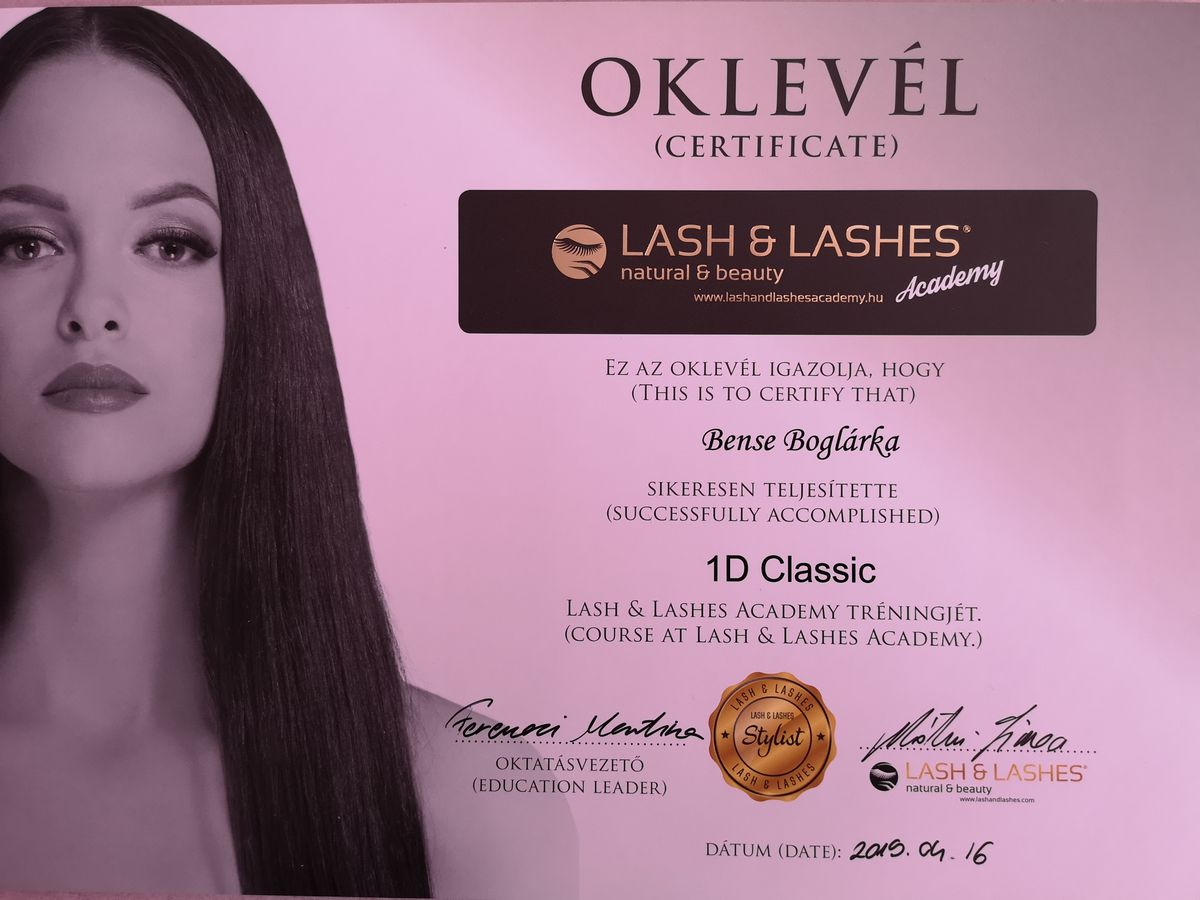
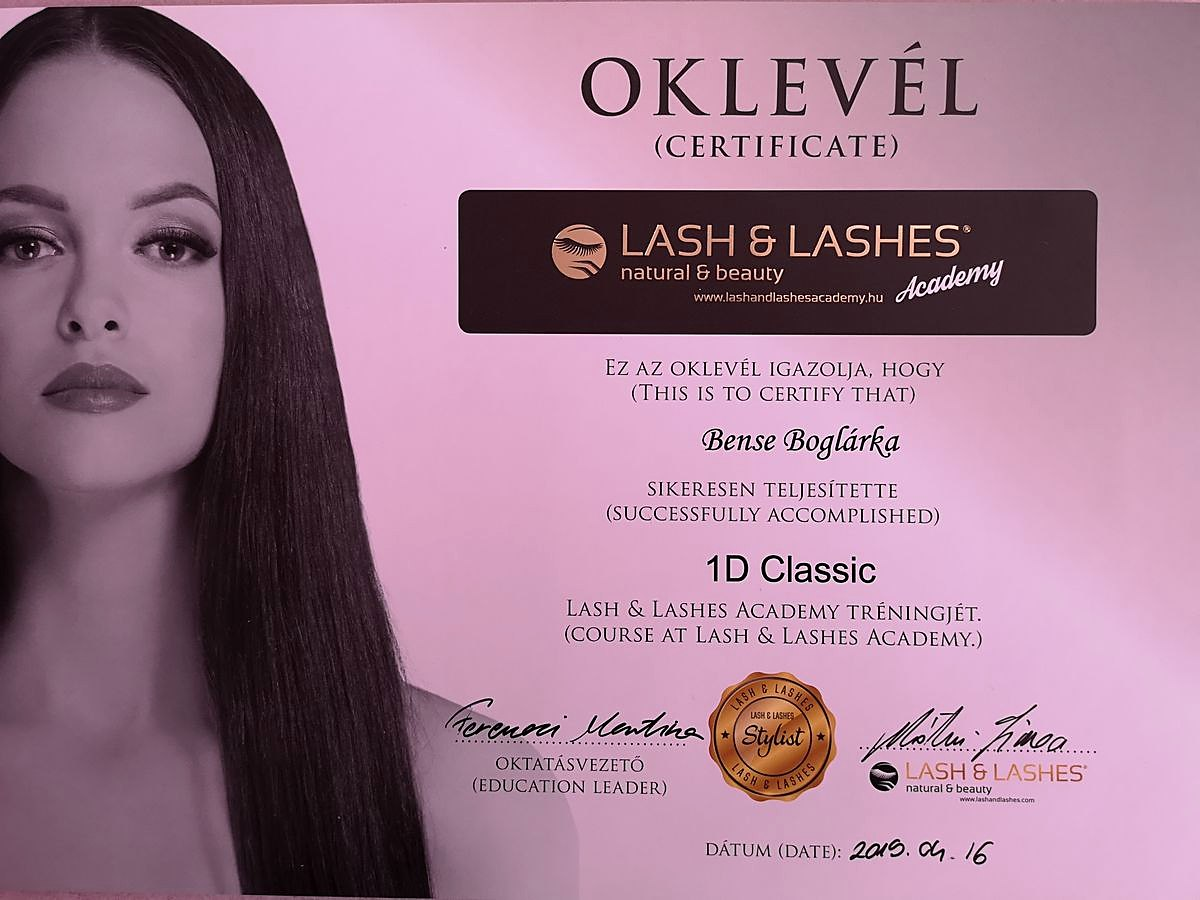
Mobilos üres területek megszüntetése + oklevélképek prémium feldolgozása
- r-media képek soha nem maradhatnak láthatatlanok: load után 2,5 mp-es
  biztosíték (clip-path helyreállítás), reveal küszöb enyhítve
- 6 oklevél újragépelése: keret/fabric háttér eltávolítás, cert-05
  kiegyenesítve + saroktisztítás, egységes kontraszt/élesség;
  eredetiek megőrizve assets/originals/ alatt
- HTML width/height frissítve az új méretekhez (CLS-védelem)
- mobilon 1 oszlopos oklevélrács finomítva (360px max, egységes kártyapadding)

🤖 Generated with Codebuff

diff --git a/index.html b/index.html
@@ -252,10 +252,10 @@
   <div class="cert-strip reveal d1">
     <figure class="cert"><img src="assets/cert-01.jpg" alt="Oklevél – Lash &amp; Lashes Academy tréning" width="952" height="1200" loading="lazy"><figcaption>Lash &amp; Lashes · 2-3D Light Volume</figcaption></figure>
     <figure class="cert"><img src="assets/cert-02.jpg" alt="Oklevél – Lash &amp; Lashes 1D Classic" width="1200" height="900" loading="lazy"><figcaption>Lash &amp; Lashes · 1D Classic</figcaption></figure>
-    <figure class="cert"><img src="assets/cert-03.jpg" alt="Oklevél – Pedi Suli tanfolyam" width="900" height="1200" loading="lazy"><figcaption>Pedi Suli · testkozmetika</figcaption></figure>
-    <figure class="cert"><img src="assets/cert-04.jpg" alt="Oklevél – thai talp- és lábmasszázs képzés" width="900" height="1200" loading="lazy"><figcaption>Thai talp- és lábmasszázs</figcaption></figure>
-    <figure class="cert"><img src="assets/cert-05.jpg" alt="Oklevél – Isabelle Lancray speciális masszázsok" width="900" height="1200" loading="lazy"><figcaption>Isabelle Lancray · Baalbek Studio</figcaption></figure>
-    <figure class="cert"><img src="assets/cert-06.jpg" alt="Szakmai tanúsítvány – Bense Boglárka" width="900" height="1200" loading="lazy"><figcaption>Szakmai tanúsítvány</figcaption></figure>
+    <figure class="cert"><img src="assets/cert-03.jpg" alt="Oklevél – Pedi Suli tanfolyam" width="879" height="1194" loading="lazy"><figcaption>Pedi Suli · testkozmetika</figcaption></figure>
+    <figure class="cert"><img src="assets/cert-04.jpg" alt="Oklevél – thai talp- és lábmasszázs képzés" width="866" height="670" loading="lazy"><figcaption>Thai talp- és lábmasszázs</figcaption></figure>
+    <figure class="cert"><img src="assets/cert-05.jpg" alt="Oklevél – Isabelle Lancray speciális masszázsok" width="824" height="1068" loading="lazy"><figcaption>Isabelle Lancray · Baalbek Studio</figcaption></figure>
+    <figure class="cert"><img src="assets/cert-06.jpg" alt="Szakmai tanúsítvány – Bense Boglárka" width="876" height="665" loading="lazy"><figcaption>Szakmai tanúsítvány</figcaption></figure>
   </div>
 
   <p class="quals-note reveal d2">Műszempilla építés (Lash &amp; Lashes) · thai talp- és lábmasszázs · svéd és frissítő masszázs · testkozmetika · speciális masszázs technikák – folyamatosan bővülő tudással.</p>

diff --git a/script.js b/script.js
@@ -86,8 +86,18 @@ if (/[?&]static/.test(window.location.search)) document.documentElement.classLis
           io.unobserve(en.target);
         }
       });
-    }, { threshold: 0.12, rootMargin: '0px 0px -6% 0px' });
+    }, { threshold: 0.05, rootMargin: '0px 0px -4% 0px' });
     revealEls.forEach(function (el) { io.observe(el); });
+    /* biztosíték: a médiaképek soha nem maradhatnak láthatatlanok.
+       Ha bármi miatt nem sült el a reveal (gyors görgetés, observer-hiba),
+       a betöltés után 2,5 mp-rel mindenképp megjelenítjük őket. */
+    window.addEventListener('load', function () {
+      setTimeout(function () {
+        revealEls.forEach(function (el) {
+          if (el.classList.contains('r-media') && !el.classList.contains('in')) el.classList.add('in');
+        });
+      }, 2500);
+    });
   } else {
     revealEls.forEach(function (el) { el.classList.add('in'); });
   }

diff --git a/styles.css b/styles.css
@@ -807,9 +807,10 @@ body.menu-open .mobile-menu{opacity:1; visibility:visible; pointer-events:auto; 
 
 /* telefonsáv: egy oszlop, elegánsan középre */
 @media (max-width:560px){
-  .cert-strip{grid-template-columns:1fr; max-width:340px; padding-inline:20px; margin-inline:auto}
-  .cert{transform:none}
+  .cert-strip{grid-template-columns:1fr; max-width:360px; gap:16px; padding-inline:20px; margin-inline:auto}
+  .cert{transform:none; padding:10px 10px 0}
   .cert img{object-fit:contain; background:#fff}
+  .cert figcaption{font-size:.7rem; letter-spacing:.12em; padding:9px 4px 11px}
 }
 
 @media (max-width:900px){
